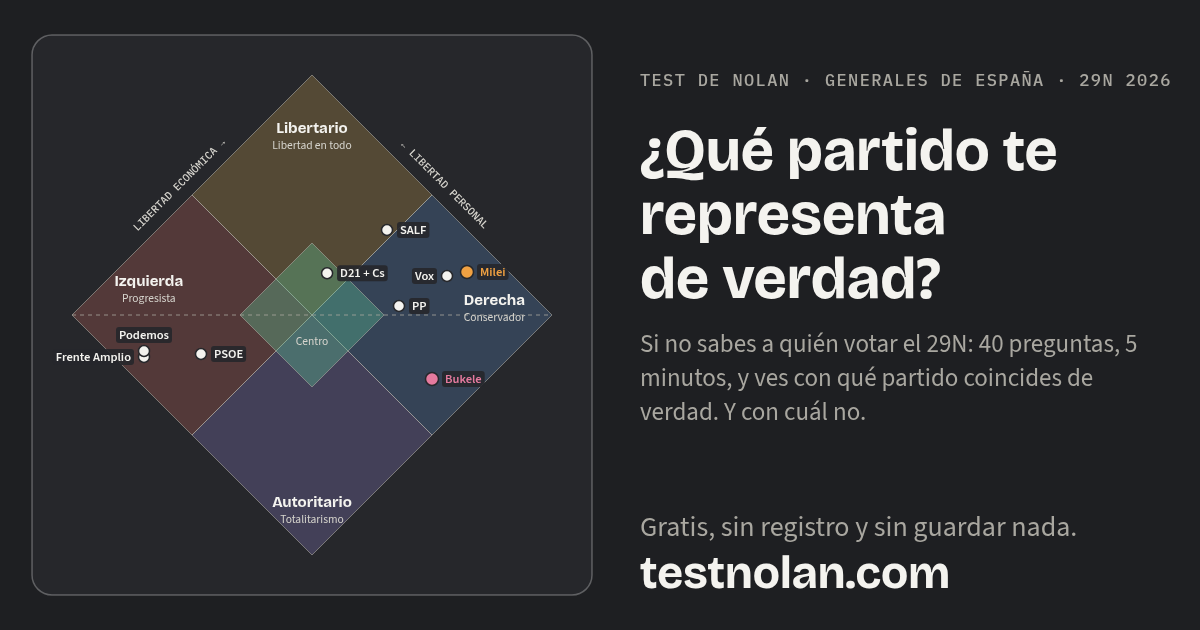
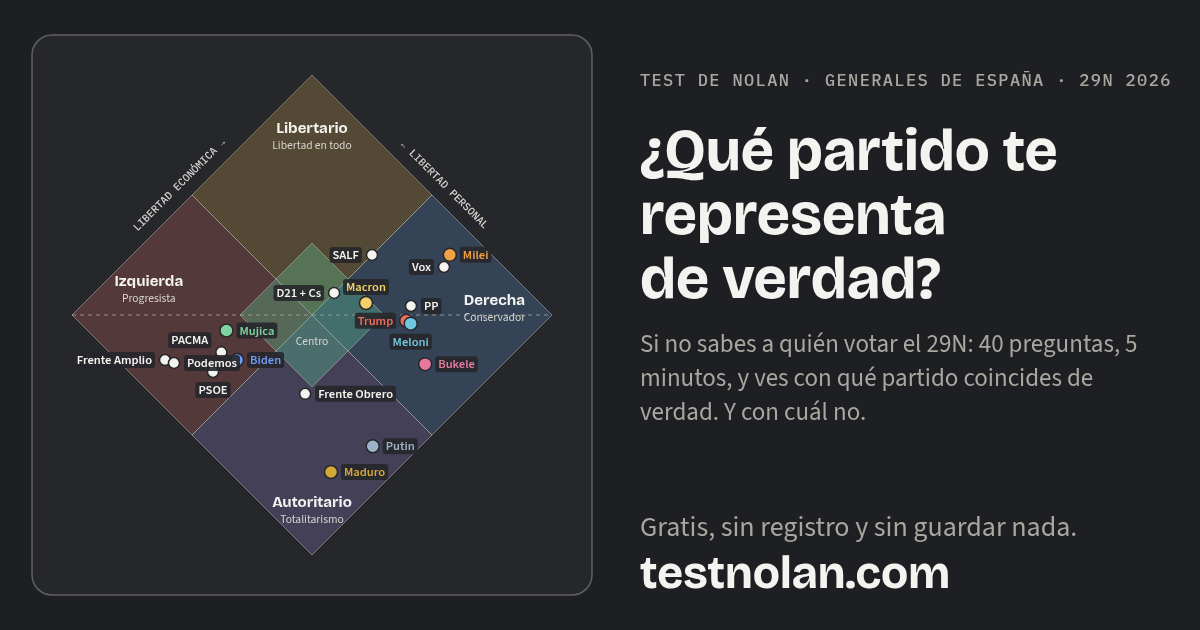
Regenerar la imagen para compartir con los datos actuales y añadir npm run og
La imagen de Open Graph era una captura de la versión 1.x: siete partidos,
solo Milei y Bukele y Milei en una posición antigua. Ahora la genera un script
desde la propia web con los datos del momento y muestra los nueve partidos y
las nueve referencias. Las etiquetas og:image y twitter:image llevan ?v=2.4
para que las redes vuelvan a leerla, y el README explica cómo recapturarla.

Changed region(s): [[0.2158, 0.3317, 0.4317, 0.6635], [0.0308, 0.5127, 0.2467, 0.6333], [0.2467, 0.6937, 0.37, 0.7841]]

diff --git a/public/assets/app.js b/public/assets/app.js
@@ -441,7 +441,7 @@ function paintChart(ctx, ox, oy, size, opts={}){
   const [cx0,cy0]=T(50,50); txt('Centro',cx0,cy0+30*k,fB(11.5),ink2); placed.push({x:cx0-22*k,y:cy0+19*k,w:44*k,h:14*k});
   const axl=(s,x,y,rot)=>{ ctx.save(); ctx.translate(ox+x*k,oy+y*k); ctx.rotate(rot*Math.PI/180); txt(s,0,0,fM(10.5),ink2); ctx.restore(); };
   axl('LIBERTAD ECONÓMICA →',150,152,-45); axl('← LIBERTAD PERSONAL',410,152,45);
-  const items = PARTIES.filter(p=> opts.spainOnly ? !p.ref : !hidden.has(p.id)).map(p=>({p,s:partyScores[p.id]}));
+  const items = PARTIES.filter(p=> opts.allParties ? true : !hidden.has(p.id)).map(p=>({p,s:partyScores[p.id]}));
   const marks = personMarks().filter(m=> (m.id==='you' ? opts.showUser!==false : opts.showGroup!==false));
   items.forEach(({s})=>{ const [x,y]=T(s.E,s.P); placed.push({x:x-7*k,y:y-7*k,w:14*k,h:14*k}); });
   marks.forEach(m=>{ const [x,y]=T(m.E,m.P); m.x=x; m.y=y; placed.push({x:x-11*k,y:y-11*k,w:22*k,h:22*k}); });
@@ -467,7 +467,7 @@ function wrapText(ctx, text, x, y, maxW, lineH){
   for(const w of words){ const test=line?line+' '+w:w; if(ctx.measureText(test).width>maxW && line){ ctx.fillText(line,x,yy); line=w; yy+=lineH; } else line=test; }
   if(line) ctx.fillText(line,x,yy); return yy;
 }
-// imgMode: 'user' (resultado del usuario) u 'og' (imagen genérica para Open Graph)
+// imgMode: 'user' (resultado del usuario, con las referencias que tenga visibles) u 'og' (imagen genérica para Open Graph, con todos los partidos y referencias). La genérica se captura con npm run og.
 async function renderShareImage(imgMode){
   const W=1200, H=630, cv=document.getElementById('shareCanvas'); cv.width=W; cv.height=H;
   const ctx=cv.getContext('2d');
@@ -475,7 +475,7 @@ async function renderShareImage(imgMode){
   const bg=cssVar('--bg'), ink=cssVar('--ink'), muted=cssVar('--muted'), accent=cssVar('--ink'), surface=cssVar('--surface'), soft=cssVar('--soft'), line=cssVar('--line-strong');
   ctx.fillStyle=bg; ctx.fillRect(0,0,W,H);
   ctx.fillStyle=surface; rr(ctx,32,35,560,560,20); ctx.fill(); ctx.strokeStyle=line; ctx.lineWidth=1.5; ctx.stroke();
-  paintChart(ctx, 32, 35, 560, {showUser: imgMode==='user', showGroup: imgMode==='user', spainOnly: imgMode!=='user'});
+  paintChart(ctx, 32, 35, 560, {showUser: imgMode==='user', showGroup: imgMode==='user', allParties: imgMode!=='user'});
   const X=640, COLW=520;
   const t=(s,x,y,font,color,align='left')=>{ ctx.font=font; ctx.fillStyle=color; ctx.textAlign=align; ctx.textBaseline='alphabetic'; ctx.fillText(s,x,y); };
   try{ ctx.letterSpacing='0.08em'; }catch(e){}

diff --git a/public/es/index.html b/public/es/index.html
@@ -14,14 +14,14 @@
 <meta property="og:title" content="¿Qué partido te representa de verdad? Test de Nolan · 29N 2026">
 <meta property="og:description" content="Si no sabes a quién votar el 29N, 40 preguntas y 5 minutos te dicen con qué partido coincides de verdad, y en qué no. Sin registro y sin guardar nada.">
 <meta property="og:url" content="https://testnolan.com/es/">
-<meta property="og:image" content="https://testnolan.com/og-image.png">
+<meta property="og:image" content="https://testnolan.com/og-image.png?v=2.4">
 <meta property="og:image:width" content="1200">
 <meta property="og:image:height" content="630">
 <meta property="og:image:alt" content="Rombo de Nolan con la posición de los partidos españoles para las elecciones del 29 de noviembre de 2026">
 <meta name="twitter:card" content="summary_large_image">
 <meta name="twitter:title" content="¿Qué partido te representa de verdad? Test de Nolan · 29N 2026">
 <meta name="twitter:description" content="Si no sabes a quién votar el 29N, 40 preguntas y 5 minutos te dicen con qué partido coincides de verdad, y en qué no.">
-<meta name="twitter:image" content="https://testnolan.com/og-image.png">
+<meta name="twitter:image" content="https://testnolan.com/og-image.png?v=2.4">
 <meta name="twitter:image:alt" content="Rombo de Nolan con la posición de los partidos españoles para las elecciones del 29 de noviembre de 2026">
 
 <script type="application/ld+json">

diff --git a/README.md b/README.md
@@ -92,7 +92,7 @@ La web está en `public/`: `es/index.html` (marcado), `assets/styles.css`, `asse
 - Esqueleto HTML completo (`lang="es"`, `charset`, `viewport`), título y descripción orientados a buscar «test de Nolan elecciones generales España 29N», etiquetas Open Graph y Twitter Card, `canonical` a `https://testnolan.com/es/` y datos estructurados JSON-LD.
 - **Compartir en redes**: una fila de iconos redondos en una sola línea (Compartir… nativo cuando el navegador lo permite, WhatsApp, Telegram, X, Facebook y Descargar imagen), cada uno con su nombre accesible (`aria-label`) y un globo con el nombre al pasar el ratón o enfocar con el teclado. Los de red abren la aplicación con el texto y el enlace del grupo ya escritos. Debajo, «Copiar enlace del grupo» a todo el ancho. La imagen es un PNG de 1200 × 630 generado en un `<canvas>` con el rombo, los partidos, tu punto y los de tu grupo, tu zona, tus dos puntuaciones, el partido más afín y la URL testnolan.com. El botón nativo la adjunta directamente (Web Share API con archivo). Los avisos de «Enlace copiado» e «Imagen descargada» son un globo pegado al botón, no un alert. La copia usa la API moderna del portapapeles en HTTPS, `execCommand('copy')` en HTTP (red local) y, si todo falla, muestra el enlace en un campo seleccionado. La constante `SHARE_SHOW_TOP_PARTY` controla si el texto y la imagen nombran al partido más afín.
 - **Enlace del grupo** (`#g=Nombre~E~P|Otro~E~P`): el *hash* de la URL lleva el nombre y las dos puntuaciones (0 a 100) de cada persona del grupo, empezando por quien comparte. Nunca llega al servidor y no incluye las respuestas una a una. Quien lo abre ve a todas esas personas en el rombo con su nombre, las tiene listadas en el panel «Compártelo con tu grupo» (con su zona y botón para quitarlas), puede añadir a alguien a mano con nombre y puntuaciones, y al compartir a su vez el enlace incluye a todo el grupo más su propio punto, así que el rombo se va llenando de amigo en amigo. El grupo se guarda en `localStorage` junto a las respuestas. Si el enlace trae a alguien con tu mismo nombre se ignora (sería tu propio enlace reenviado). El botón de compartir se activa cuando hay respuestas y has puesto tu nombre; sin nombre no se puede compartir, porque el punto no serviría para el grupo. Los nombres admiten tildes, eñes, ces trencadas, diéresis, el punt volat y apóstrofos: van en UTF-8 codificado con `encodeURIComponent` y se leen con `URLSearchParams`. Solo se quitan `< > " & ~ | % +` (los que romperían el HTML o el formato del enlace) y se compactan los espacios; máximo 24 caracteres. Probado de extremo a extremo con «Núria Ça·ñé», «Begoña O'Neil» y «Çetin Ü». `HASH_VERSION` se incrementa si cambia el formato.
-- Modo `?og=1` que muestra solo la imagen genérica de 1200 × 630 (sin usuario, tema claro) para capturarla como `og-image.png`, y `?og=user` para previsualizar la imagen del resultado propio.
+- Modo `?og=1` que muestra solo la imagen genérica de 1200 × 630 con todos los partidos y referencias, y `?og=user` para previsualizar la imagen del resultado propio. La genérica se captura con `npm run og`, que la guarda en `public/og-image.png`; como las redes la cachean por URL, al recapturarla hay que subir el `?v=` de las etiquetas `og:image` y `twitter:image` de `public/es/index.html`.
 - Metodología ampliada: versión y fecha de los datos visibles (`DATA_VERSION`, `DATA_DATE`), nota de circunscripciones (D21 + Cs solo en Madrid y Barcelona; SALF solo en algunas provincias), críticas al modelo de Nolan y soporte para enlazar la **fuente** de cada respuesta de cada partido (campo opcional `src` por pregunta; aún sin datos).
 - Pie de página con la política de datos (no hay servidor, cookies ni analítica; todo queda en el navegador), aviso de que las posiciones son estimaciones y de que el test no recomienda votar a nadie, autoría con enlace a menetray.com y contacto para correcciones.
 - Accesibilidad: descripción del SVG que se actualiza con la posición del usuario, mensajes de estado con `aria-live`, etiquetas en los botones de la leyenda y de compartir, foco visible en todos los controles y `prefers-reduced-motion` respetado.
@@ -425,7 +425,9 @@ La versión y la fecha se muestran en la metodología de la web (claves `version
 ├── README.md
 ├── LICENSE                  # MIT, para el código
 ├── LICENSE-DATA             # CC BY 4.0, para las preguntas, las posiciones y sus justificaciones
-├── package.json             # solo los scripts de test; sin dependencias
+├── package.json             # scripts de test y de captura de la imagen; sin dependencias
+├── scripts/
+│   └── og-image.sh          # captura public/og-image.png con Chrome sin interfaz (npm run og)
 ├── commit-message.txt       # borrador del siguiente mensaje de commit (no se despliega)
 ├── wrangler.jsonc           # configuración de Cloudflare Workers con static assets
 ├── docs/                    # verificaciones de datos con fuentes (no se despliegan)
